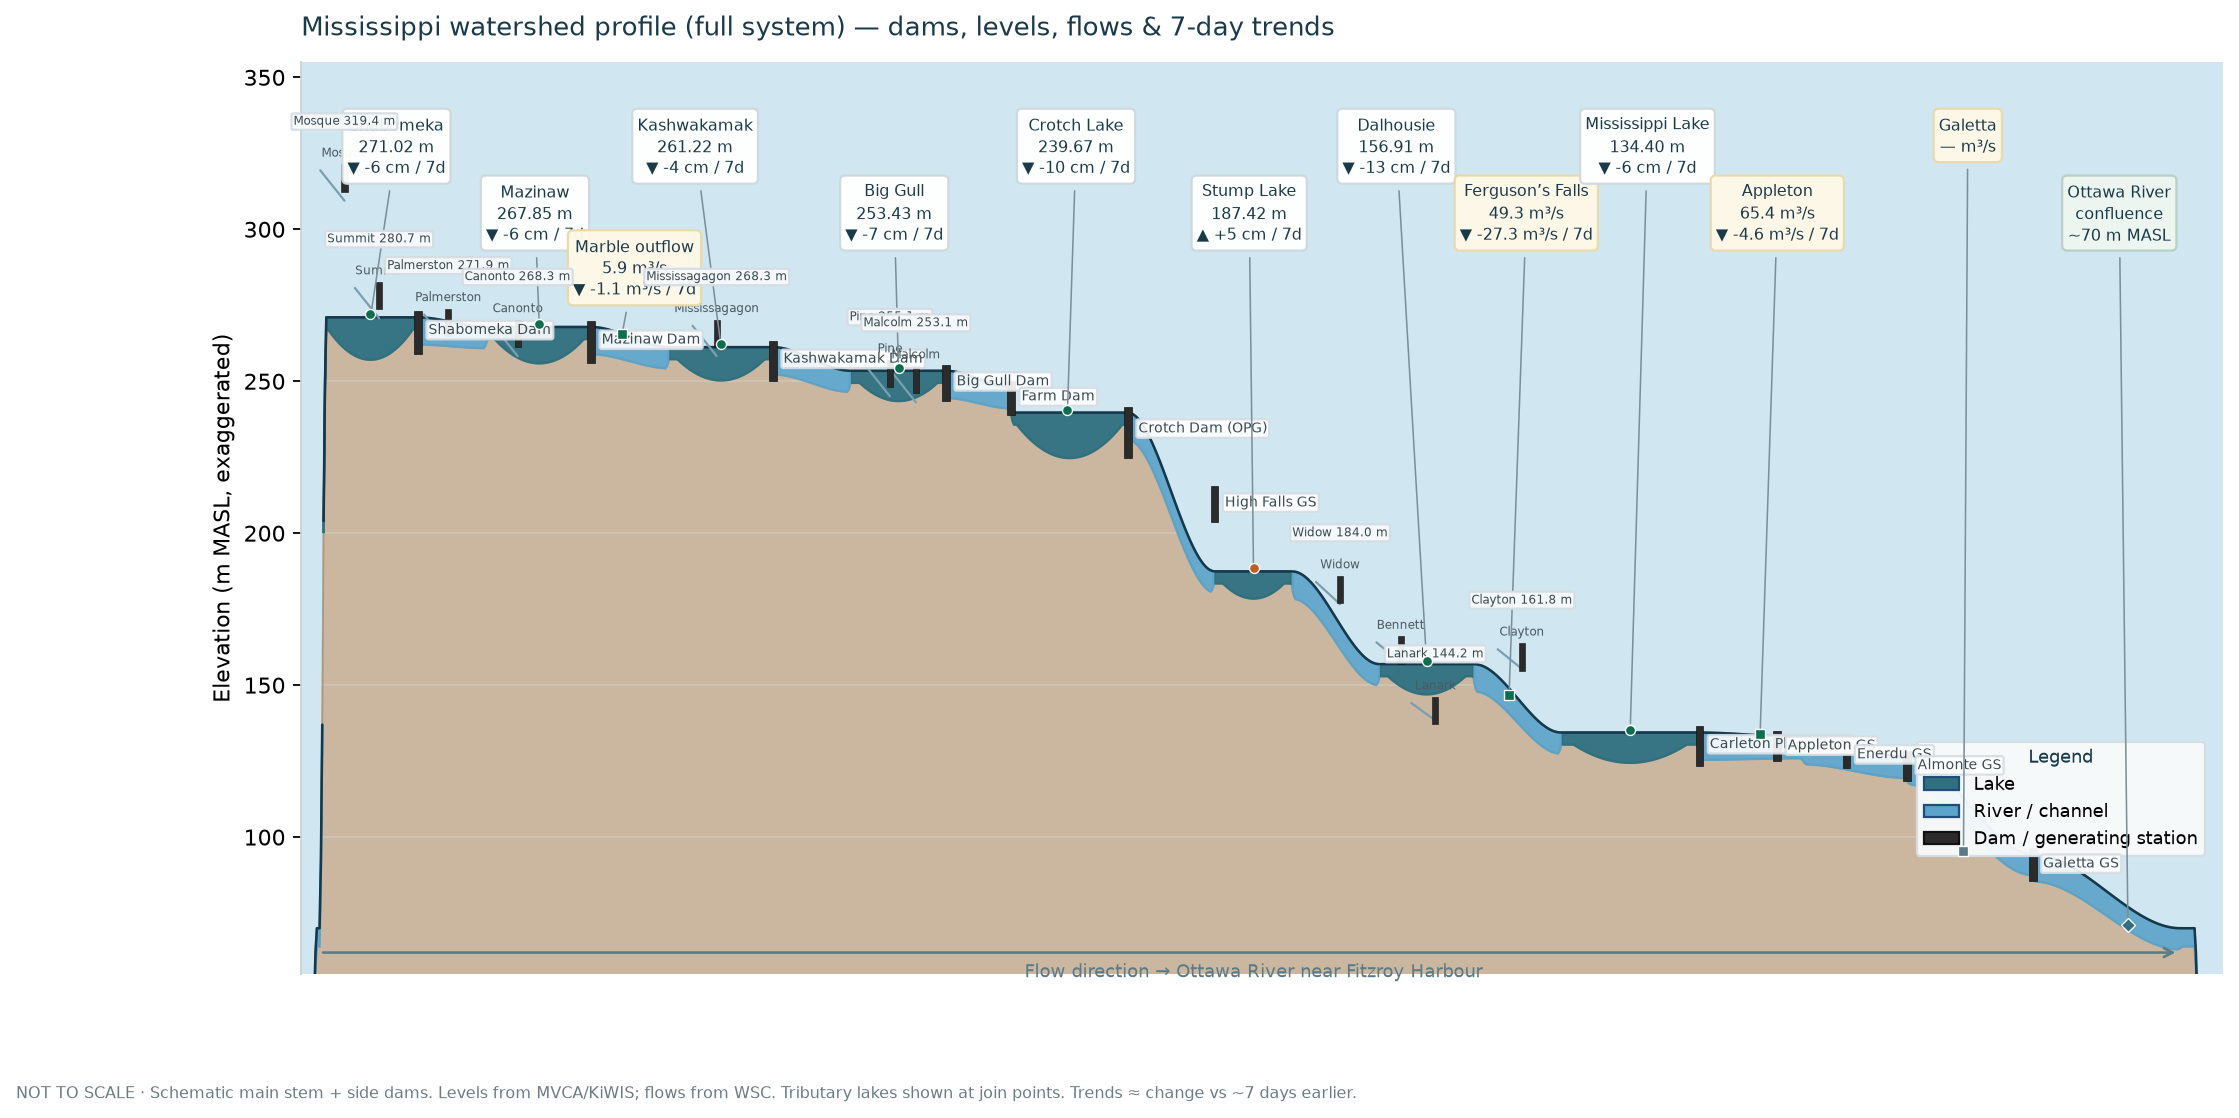
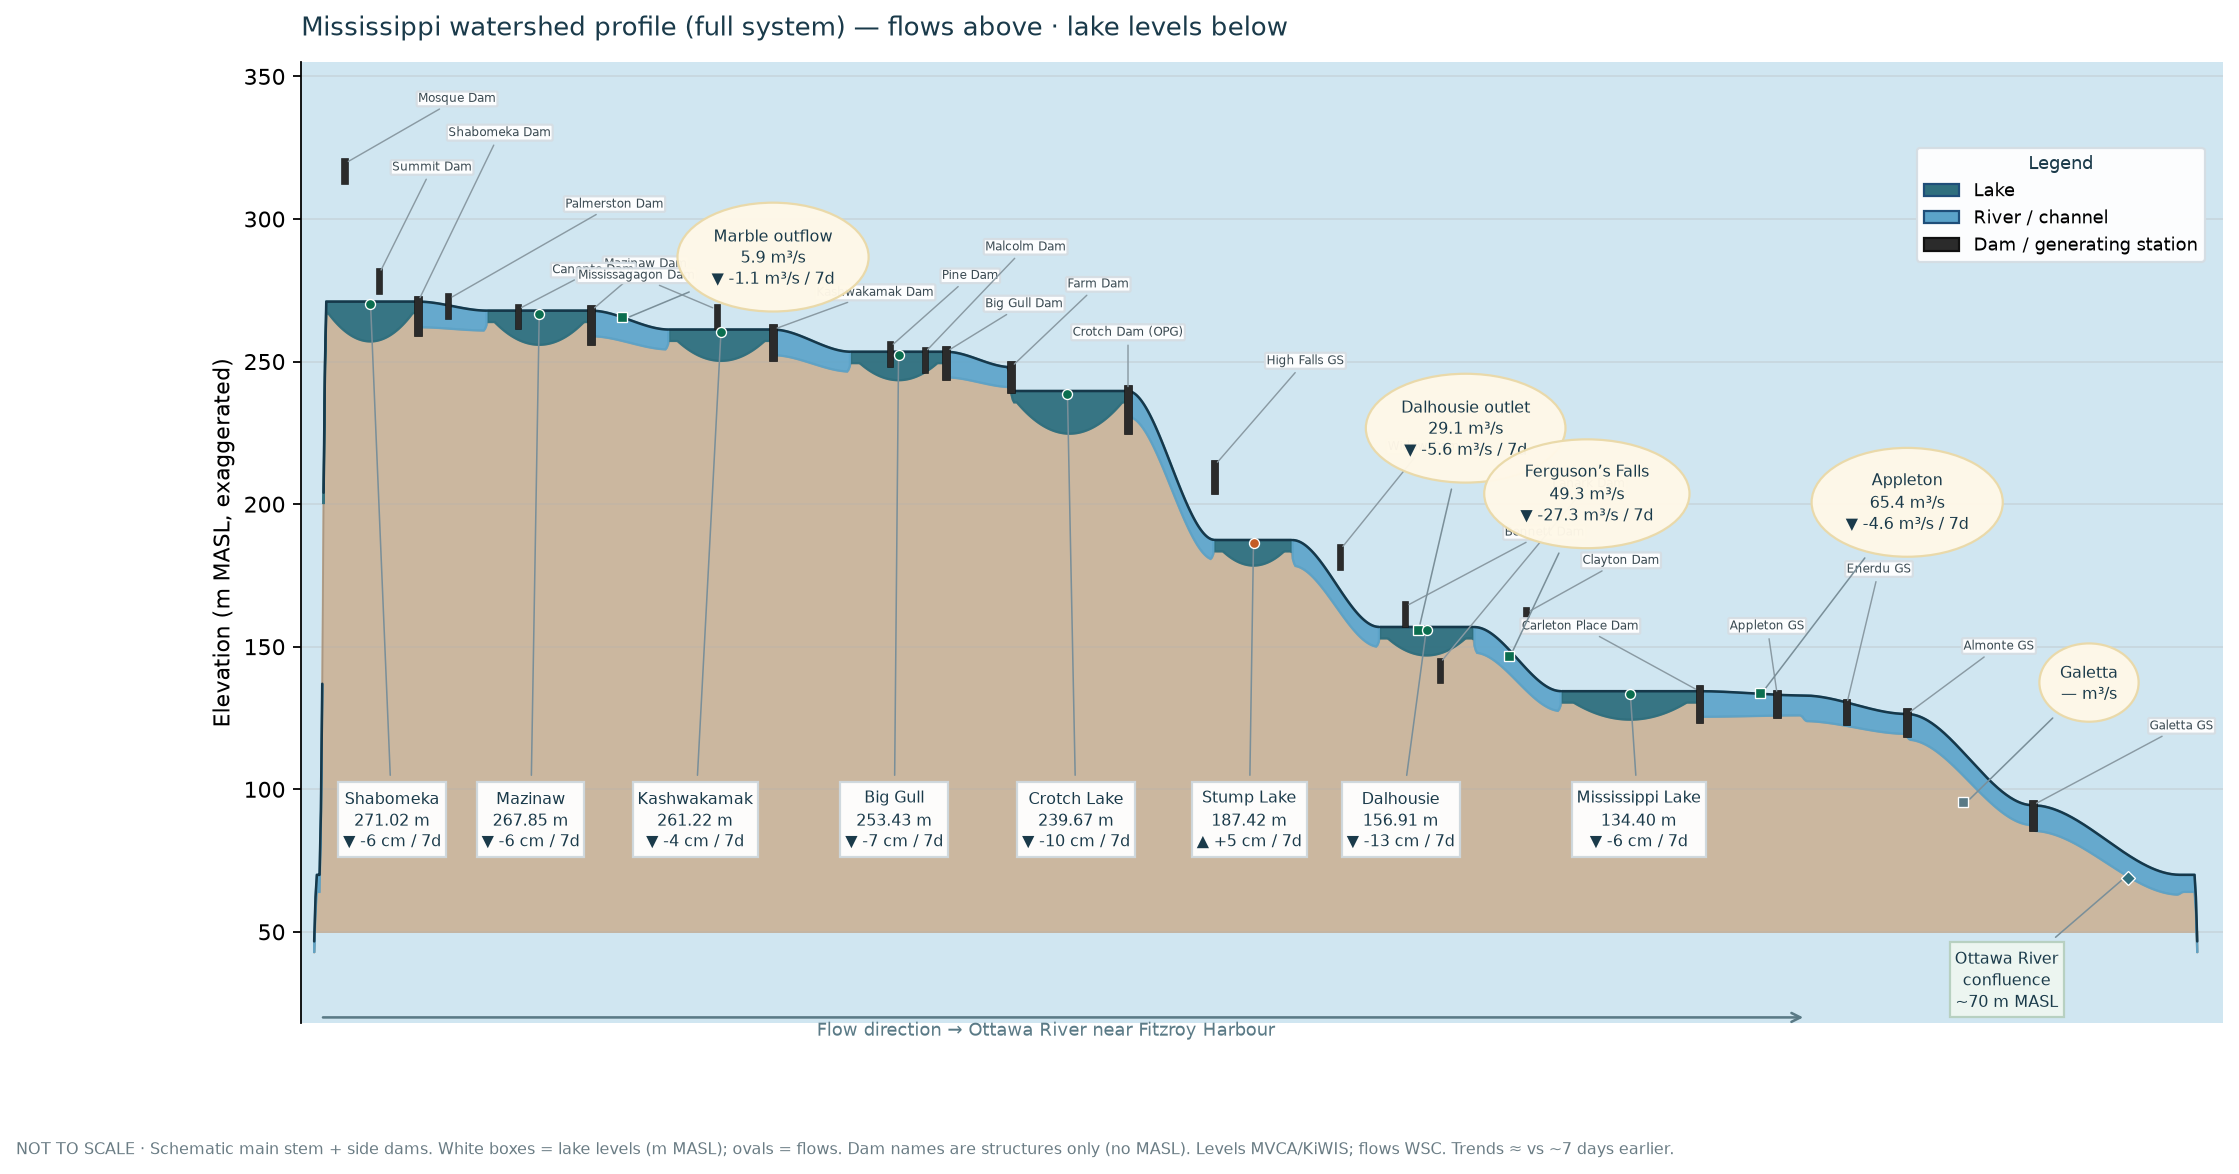
Space full-system profile labels so dam names and flow ovals stay readable.
Angled, shorter leaders and marked oval positions keep callouts off the water line; Ottawa confluence sits below the lake-level row.

diff --git a/index.html b/index.html
@@ -239,7 +239,7 @@
           </tr>
           <tr>
             <td style="padding:0 24px 16px 24px;" align="center">
-              <img src="watershed_full_profile.png?v=9c9f991a" width="592" class="chart-thumb" alt="Full Mississippi watershed elevation profile with dams, lake levels, flows, and 7-day trends — click to enlarge" onclick="openChart('watershed_full_profile.png?v=9c9f991a')" title="Click to view full screen">
+              <img src="watershed_full_profile.png?v=68cb78b3" width="592" class="chart-thumb" alt="Full Mississippi watershed elevation profile with dams, lake levels, flows, and 7-day trends — click to enlarge" onclick="openChart('watershed_full_profile.png?v=68cb78b3')" title="Click to view full screen">
             </td>
           </tr>
           <tr>

diff --git a/update_site.py b/update_site.py
@@ -1107,12 +1107,12 @@ def render_watershed_full_chart(series: dict) -> bool:
     z_galetta = z_miss - 40.0
     z_ottawa = 70.0
 
-    fig, ax = plt.subplots(figsize=(15.5, 7.4))
+    fig, ax = plt.subplots(figsize=(15.5, 7.8))
     ax.set_xlim(0, 22.2)
-    ax.set_ylim(55, 355)
+    ax.set_ylim(18, 355)
     ax.set_facecolor("#d9eaf3")
     fig.patch.set_facecolor("white")
-    ax.axhspan(55, 355, color="#d0e6f1", zorder=0)
+    ax.axhspan(18, 355, color="#d0e6f1", zorder=0)
 
     def _ease(t):
         t = np.clip(t, 0, 1)
@@ -1213,7 +1213,7 @@ def render_watershed_full_chart(series: dict) -> bool:
     fill_kind("lake", "#2f6f7e")
     fill_kind("river", "#5ba3c9", alpha=0.9)
 
-    def draw_dam(x, z_top, height=12, label="", label_side=1, fontsize=6.2):
+    def draw_dam(x, z_top, height=12):
         ax.add_patch(
             Rectangle(
                 (x - 0.045, z_top - height),
@@ -1226,50 +1226,76 @@ def render_watershed_full_chart(series: dict) -> bool:
                 clip_on=False,
             )
         )
-        if label:
-            ax.text(
-                x + 0.12 * label_side,
-                z_top - height * 0.35,
-                label,
-                ha="left" if label_side > 0 else "right",
-                va="center",
-                fontsize=fontsize,
-                color="#3a4a52",
-                zorder=6,
-                rotation=0,
-                bbox=dict(boxstyle="round,pad=0.15", facecolor="white", edgecolor="#d5dde3", alpha=0.9),
-            )
+        # Anchor leaders on the dam crest (top of bar)
+        return x, z_top
 
-    # Main-stem dams / generating stations
-    draw_dam(1.35, z_shab, height=12, label="Shabomeka Dam")
-    draw_dam(3.35, z_maz, height=12, label="Mazinaw Dam")
-    draw_dam(5.45, z_kash, height=11, label="Kashwakamak Dam")
-    draw_dam(7.45, z_gull, height=10, label="Big Gull Dam")
-    draw_dam(8.20, z_farm, height=9, label="Farm Dam")
-    draw_dam(9.55, z_crotch, height=15, label="Crotch Dam (OPG)")
-    draw_dam(10.55, (z_crotch + z_stump) / 2, height=10, label="High Falls GS")
-    draw_dam(16.15, z_miss, height=11, label="Carleton Place Dam")
-    draw_dam(17.05, z_ap, height=8, label="Appleton GS")
-    draw_dam(17.85, (z_ap + z_almonte) / 2, height=7, label="Enerdu GS")
-    draw_dam(18.55, z_almonte, height=8, label="Almonte GS")
-    draw_dam(20.00, z_galetta, height=9, label="Galetta GS")
+    def dam_lead(x_dam, z_dam, text, x_text, y_text, *, fontsize=5.6, ha="left", va="bottom"):
+        """Angled leader from dam crest to label (usually above-right, lead down-left)."""
+        ax.annotate(
+            text,
+            xy=(x_dam, z_dam),
+            xytext=(x_text, y_text),
+            ha=ha,
+            va=va,
+            fontsize=fontsize,
+            color="#3a4a52",
+            arrowprops=dict(
+                arrowstyle="-",
+                color="#8a9aa3",
+                lw=0.65,
+                shrinkA=2,
+                shrinkB=2,
+                connectionstyle="arc3,rad=0",
+            ),
+            bbox=dict(boxstyle="round,pad=0.12", facecolor="white", edgecolor="#d5dde3", alpha=0.95),
+            zorder=6,
+            clip_on=False,
+        )
 
-    # Tributary / side-reservoir dams (schematic joins) — compact ticks
+    # Main-stem dam bars
+    d_shab = draw_dam(1.35, z_shab, height=12)
+    d_maz = draw_dam(3.35, z_maz, height=12)
+    d_kash = draw_dam(5.45, z_kash, height=11)
+    d_gull = draw_dam(7.45, z_gull, height=10)
+    d_farm = draw_dam(8.20, z_farm, height=9)
+    d_crotch = draw_dam(9.55, z_crotch, height=15)
+    z_hf = (z_crotch + z_stump) / 2
+    d_hf = draw_dam(10.55, z_hf, height=10)
+    d_cp = draw_dam(16.15, z_miss, height=11)
+    d_apgs = draw_dam(17.05, z_ap, height=8)
+    d_enerdu = draw_dam(17.85, (z_ap + z_almonte) / 2, height=7)
+    d_almonte = draw_dam(18.55, z_almonte, height=8)
+    d_galetta = draw_dam(20.00, z_galetta, height=9)
+
+    # Dam labels — above-right of crests, short down-left leads (per markup)
+    dam_lead(*d_shab, "Shabomeka Dam", 1.70, 328)
+    dam_lead(*d_maz, "Mazinaw Dam", 3.50, 282)
+    dam_lead(*d_kash, "Kashwakamak Dam", 5.95, 272)
+    dam_lead(*d_gull, "Big Gull Dam", 7.90, 268)
+    dam_lead(*d_farm, "Farm Dam", 8.85, 275, fontsize=5.3)
+    dam_lead(*d_crotch, "Crotch Dam (OPG)", 9.55, 258, ha="center")
+    dam_lead(*d_hf, "High Falls GS", 11.15, 248)
+    dam_lead(*d_cp, "Carleton Place Dam", 15.45, 155, fontsize=5.3, ha="right")
+    dam_lead(*d_apgs, "Appleton GS", 16.50, 155, fontsize=5.3)
+    dam_lead(*d_enerdu, "Enerdu GS", 17.85, 175, fontsize=5.3)
+    dam_lead(*d_almonte, "Almonte GS", 19.20, 148, fontsize=5.3)
+    dam_lead(*d_galetta, "Galetta GS", 21.35, 120, fontsize=5.3)
+
+    # Side dams — same above-right pattern; Summit tucked left to clear Mosque
     side_dams = [
-        (0.50, z_mosque, "Mosque"),
-        (0.90, z_summit, "Summit"),
-        (1.70, z_palm, "Palmerston"),
-        (2.50, z_can, "Canonto"),
-        (4.80, z_missag, "Mississagagon"),
-        (6.80, z_pine, "Pine"),
-        (7.10, z_malc, "Malcolm"),
-        (12.00, z_widow, "Widow"),
-        (12.70, (z_widow + z_lanark) / 2, "Bennett"),
-        (13.10, z_lanark, "Lanark"),
-        (14.10, z_clay, "Clayton"),
+        (0.50, z_mosque, "Mosque Dam", 1.35, 340, "left"),
+        (0.90, z_summit, "Summit Dam", 1.05, 316, "left"),
+        (1.70, z_palm, "Palmerston Dam", 3.05, 303, "left"),
+        (2.50, z_can, "Canonto Dam", 2.90, 280, "left"),
+        (4.80, z_missag, "Mississagagon Dam", 4.55, 278, "right"),
+        (6.80, z_pine, "Pine Dam", 7.40, 278, "left"),
+        (7.20, z_malc, "Malcolm Dam", 7.90, 288, "left"),
+        (12.00, z_widow, "Widow Dam", 12.55, 218, "left"),
+        (12.75, (z_widow + z_lanark) / 2, "Bennett Dam", 13.90, 188, "left"),
+        (13.15, z_lanark, "Lanark Dam", 14.45, 205, "left"),
+        (14.15, z_clay, "Clayton Dam", 14.80, 178, "left"),
     ]
-    for x, z, lab in side_dams:
-        ax.plot([x - 0.28, x], [z, max(z - 10, z * 0.96)], color="#7aa0b0", lw=1.0, zorder=4, solid_capstyle="round")
+    for x, z, name, xt, yt, ha in side_dams:
         ax.add_patch(
             Rectangle(
                 (x - 0.035, z - 7),
@@ -1282,9 +1308,9 @@ def render_watershed_full_chart(series: dict) -> bool:
                 clip_on=False,
             )
         )
-        ax.text(x, z + 3.5, lab, ha="center", va="bottom", fontsize=5.4, color="#4a5a62", zorder=6)
+        dam_lead(x, z, name, xt, yt, fontsize=5.2, ha=ha)
 
-    def label_box(x, z, node, name, kind_label, x_text, y_text):
+    def label_box(x, z, node, name, kind_label, x_text, y_text, *, below=False):
         val = (node or {}).get("value")
         d7 = (node or {}).get("delta_7d")
         arrow, tcolor = _trend_arrow(d7, flat=0.8)
@@ -1295,6 +1321,7 @@ def render_watershed_full_chart(series: dict) -> bool:
                 trend = "—" if d7 is None else f"{arrow} {d7:+.0f} cm / 7d"
                 body = f"{name}\n{val:.2f} m\n{trend}"
             face, edge, marker = "#ffffff", "#cfd8dd", "o"
+            box = dict(boxstyle="square,pad=0.30", facecolor=face, edgecolor=edge, alpha=0.97)
         else:
             if val is None:
                 body = f"{name}\n— m³/s"
@@ -1302,23 +1329,24 @@ def render_watershed_full_chart(series: dict) -> bool:
                 trend = "—" if d7 is None else f"{arrow} {d7:+.1f} m³/s / 7d"
                 body = f"{name}\n{val:.1f} m³/s\n{trend}"
             face, edge, marker = "#fff8e8", "#ead9a8", "s"
+            box = dict(boxstyle="ellipse,pad=0.38", facecolor=face, edgecolor=edge, alpha=0.97)
         ax.annotate(
             body,
             xy=(x, z),
             xytext=(x_text, y_text),
             ha="center",
-            va="top",
+            va="bottom" if below else "top",
             fontsize=7.2,
             color="#1a3a4a",
             linespacing=1.35,
             arrowprops=dict(arrowstyle="-", color="#7a8f99", lw=0.7, shrinkA=3, shrinkB=4),
-            bbox=dict(boxstyle="round,pad=0.32", facecolor=face, edgecolor=edge, alpha=0.97),
+            bbox=box,
             zorder=7,
             clip_on=False,
         )
         ax.plot(
             [x],
-            [z + 1.0],
+            [z + (1.0 if not below else -1.0)],
             marker=marker,
             color=tcolor,
             ms=4.5,
@@ -1327,69 +1355,46 @@ def render_watershed_full_chart(series: dict) -> bool:
             markeredgewidth=0.6,
         )
 
-    # Staggered callouts — major lakes + flows
-    label_box(0.80, z_shab, nodes.get("shabomeka"), "Shabomeka", "level", 1.10, 338)
-    label_box(2.75, z_maz, nodes.get("mazinaw"), "Mazinaw", "level", 2.70, 316)
-    label_box(4.85, z_kash, nodes.get("kashwakamak"), "Kashwakamak", "level", 4.55, 338)
-    label_box(3.70, (z_maz + z_kash) / 2, nodes.get("marble"), "Marble outflow", "flow", 3.85, 298)
-    label_box(6.90, z_gull, nodes.get("big_gull"), "Big Gull", "level", 6.85, 316)
-    label_box(8.85, z_crotch, nodes.get("crotch"), "Crotch Lake", "level", 8.95, 338)
-    label_box(11.00, z_stump, nodes.get("stump"), "Stump Lake", "level", 10.95, 316)
-    label_box(13.00, z_dal, nodes.get("dalhousie"), "Dalhousie", "level", 12.65, 338)
-    label_box(13.95, (z_dal + z_miss) / 2, nodes.get("ferguson"), "Ferguson’s Falls", "flow", 14.15, 316)
-    label_box(15.35, z_miss, nodes.get("mississippi"), "Mississippi Lake", "level", 15.55, 338)
-    label_box(16.85, z_ap, nodes.get("appleton"), "Appleton", "flow", 17.05, 316)
-    label_box(19.20, z_galetta, nodes.get("galetta"), "Galetta", "flow", 19.25, 338)
+    # Flows ABOVE — Marble in the marked sky oval; others stay in the upper band
+    y_lvl = 78
+    label_box(3.70, (z_maz + z_kash) / 2, nodes.get("marble"), "Marble outflow", "flow", 5.45, 298)
+    label_box(12.90, z_dal - 2, nodes.get("dalhousie_out"), "Dalhousie outlet", "flow", 13.45, 238)
+    label_box(13.95, (z_dal + z_miss) / 2, nodes.get("ferguson"), "Ferguson’s Falls", "flow", 14.85, 215)
+    label_box(16.85, z_ap, nodes.get("appleton"), "Appleton", "flow", 18.55, 212)
+    label_box(19.20, z_galetta, nodes.get("galetta"), "Galetta", "flow", 20.65, 145)
+
+    # Lake levels BELOW — unchanged except Ottawa lower
+    label_box(0.80, z_shab, nodes.get("shabomeka"), "Shabomeka", "level", 1.05, y_lvl, below=True)
+    label_box(2.75, z_maz, nodes.get("mazinaw"), "Mazinaw", "level", 2.65, y_lvl, below=True)
+    label_box(4.85, z_kash, nodes.get("kashwakamak"), "Kashwakamak", "level", 4.55, y_lvl, below=True)
+    label_box(6.90, z_gull, nodes.get("big_gull"), "Big Gull", "level", 6.85, y_lvl, below=True)
+    label_box(8.85, z_crotch, nodes.get("crotch"), "Crotch Lake", "level", 8.95, y_lvl, below=True)
+    label_box(11.00, z_stump, nodes.get("stump"), "Stump Lake", "level", 10.95, y_lvl, below=True)
+    label_box(13.00, z_dal, nodes.get("dalhousie"), "Dalhousie", "level", 12.70, y_lvl, below=True)
+    label_box(15.35, z_miss, nodes.get("mississippi"), "Mississippi Lake", "level", 15.45, y_lvl, below=True)
     ax.annotate(
         "Ottawa River\nconfluence\n~70 m MASL",
         xy=(21.1, z_ottawa),
-        xytext=(21.0, 316),
+        xytext=(19.70, 22),
         ha="center",
-        va="top",
+        va="bottom",
         fontsize=7.2,
         color="#1a3a4a",
         linespacing=1.35,
         arrowprops=dict(arrowstyle="-", color="#7a8f99", lw=0.7, shrinkA=3, shrinkB=4),
-        bbox=dict(boxstyle="round,pad=0.32", facecolor="#eef6f0", edgecolor="#b7d0c0", alpha=0.97),
+        bbox=dict(boxstyle="square,pad=0.30", facecolor="#eef6f0", edgecolor="#b7d0c0", alpha=0.97),
         zorder=7,
         clip_on=False,
     )
-    ax.plot([21.1], [z_ottawa + 1.0], marker="D", color="#2f6f7e", ms=4.5, zorder=8, markeredgecolor="white", markeredgewidth=0.6)
-
-    # Side-lake level chips
-    def side_chip(x, z, node, name):
-        val = (node or {}).get("value")
-        txt = f"{name} {val:.1f} m" if val is not None else f"{name} —"
-        ax.text(
-            x,
-            min(z + 14, 348),
-            txt,
-            ha="center",
-            va="bottom",
-            fontsize=5.6,
-            color="#3a4a52",
-            zorder=7,
-            bbox=dict(boxstyle="round,pad=0.16", facecolor="#f7fafb", edgecolor="#d5dde3", alpha=0.95),
-        )
-
-    side_chip(0.50, z_mosque, nodes.get("mosque"), "Mosque")
-    side_chip(0.90, z_summit, nodes.get("summit"), "Summit")
-    side_chip(1.70, z_palm, nodes.get("palmerston"), "Palmerston")
-    side_chip(2.50, z_can, nodes.get("canonto"), "Canonto")
-    side_chip(4.80, z_missag, nodes.get("mississagagon"), "Mississagagon")
-    side_chip(6.80, z_pine, nodes.get("pine"), "Pine")
-    side_chip(7.10, z_malc, nodes.get("malcolm"), "Malcolm")
-    side_chip(12.00, z_widow, nodes.get("widow"), "Widow")
-    side_chip(13.10, z_lanark, nodes.get("lanark"), "Lanark")
-    side_chip(14.10, z_clay, nodes.get("clayton"), "Clayton")
+    ax.plot([21.1], [z_ottawa - 1.0], marker="D", color="#2f6f7e", ms=4.5, zorder=8, markeredgecolor="white", markeredgewidth=0.6)
 
     ax.annotate(
         "",
-        xy=(21.7, 62),
-        xytext=(0.2, 62),
+        xy=(17.4, 20),
+        xytext=(0.2, 20),
         arrowprops=dict(arrowstyle="->", color="#5a7a86", lw=1.15),
     )
-    ax.text(11.0, 58.5, "Flow direction → Ottawa River near Fitzroy Harbour", ha="center", va="top", fontsize=8, color="#5a7a86")
+    ax.text(8.6, 18.5, "Flow direction → Ottawa River near Fitzroy Harbour", ha="center", va="top", fontsize=8, color="#5a7a86")
 
     legend_handles = [
         Patch(facecolor="#2f6f7e", edgecolor="#1f4e79", label="Lake"),
@@ -1398,8 +1403,8 @@ def render_watershed_full_chart(series: dict) -> bool:
     ]
     leg = ax.legend(
         handles=legend_handles,
-        loc="lower right",
-        bbox_to_anchor=(0.995, 0.12),
+        loc="upper right",
+        bbox_to_anchor=(0.995, 0.92),
         fontsize=8,
         frameon=True,
         fancybox=True,
@@ -1411,7 +1416,7 @@ def render_watershed_full_chart(series: dict) -> bool:
     leg.get_title().set_color("#1a3a4a")
 
     ax.set_title(
-        "Mississippi watershed profile (full system) — dams, levels, flows & 7-day trends",
+        "Mississippi watershed profile (full system) — flows above · lake levels below",
         loc="left",
         color="#1a3a4a",
         fontsize=11.5,
@@ -1426,13 +1431,14 @@ def render_watershed_full_chart(series: dict) -> bool:
     fig.text(
         0.01,
         0.005,
-        "NOT TO SCALE · Schematic main stem + side dams. Levels from MVCA/KiWIS; flows from WSC. Tributary lakes shown at join points. Trends ≈ change vs ~7 days earlier.",
+        "NOT TO SCALE · Schematic main stem + side dams. White boxes = lake levels (m MASL); ovals = flows. Dam names are structures only (no MASL). Levels MVCA/KiWIS; flows WSC. Trends ≈ vs ~7 days earlier.",
         fontsize=7.2,
         color="#6a7c84",
     )
     fig.savefig(WATERSHED_FULL_PNG, dpi=160, bbox_inches="tight", facecolor="white")
     plt.close()
     return True
+
 
 
 def render_html(series: dict) -> None:
